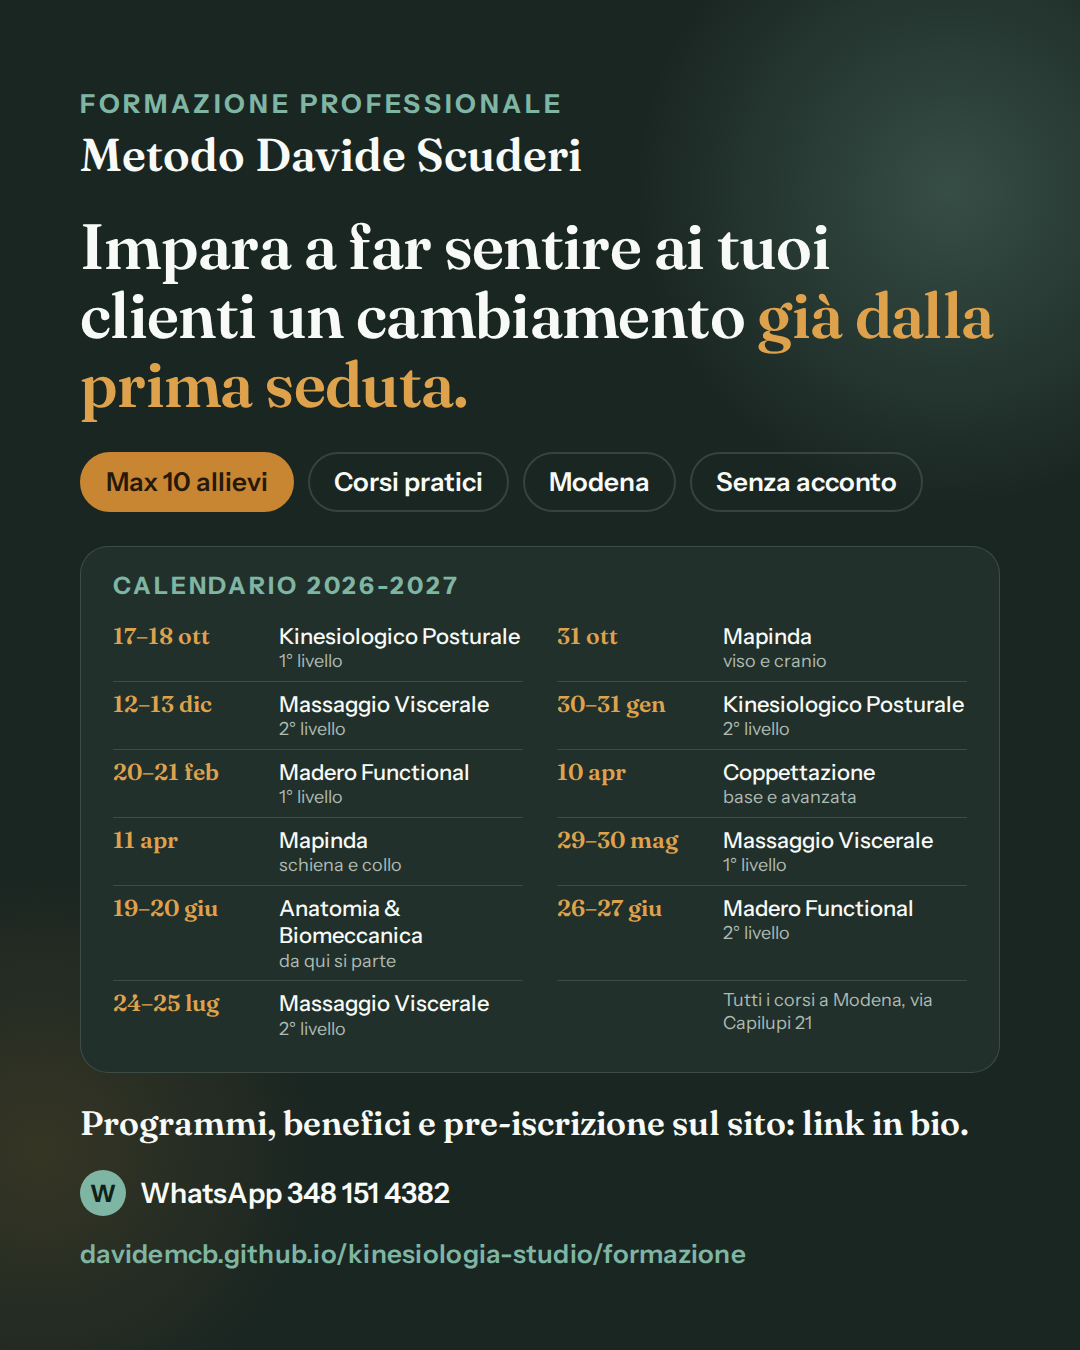
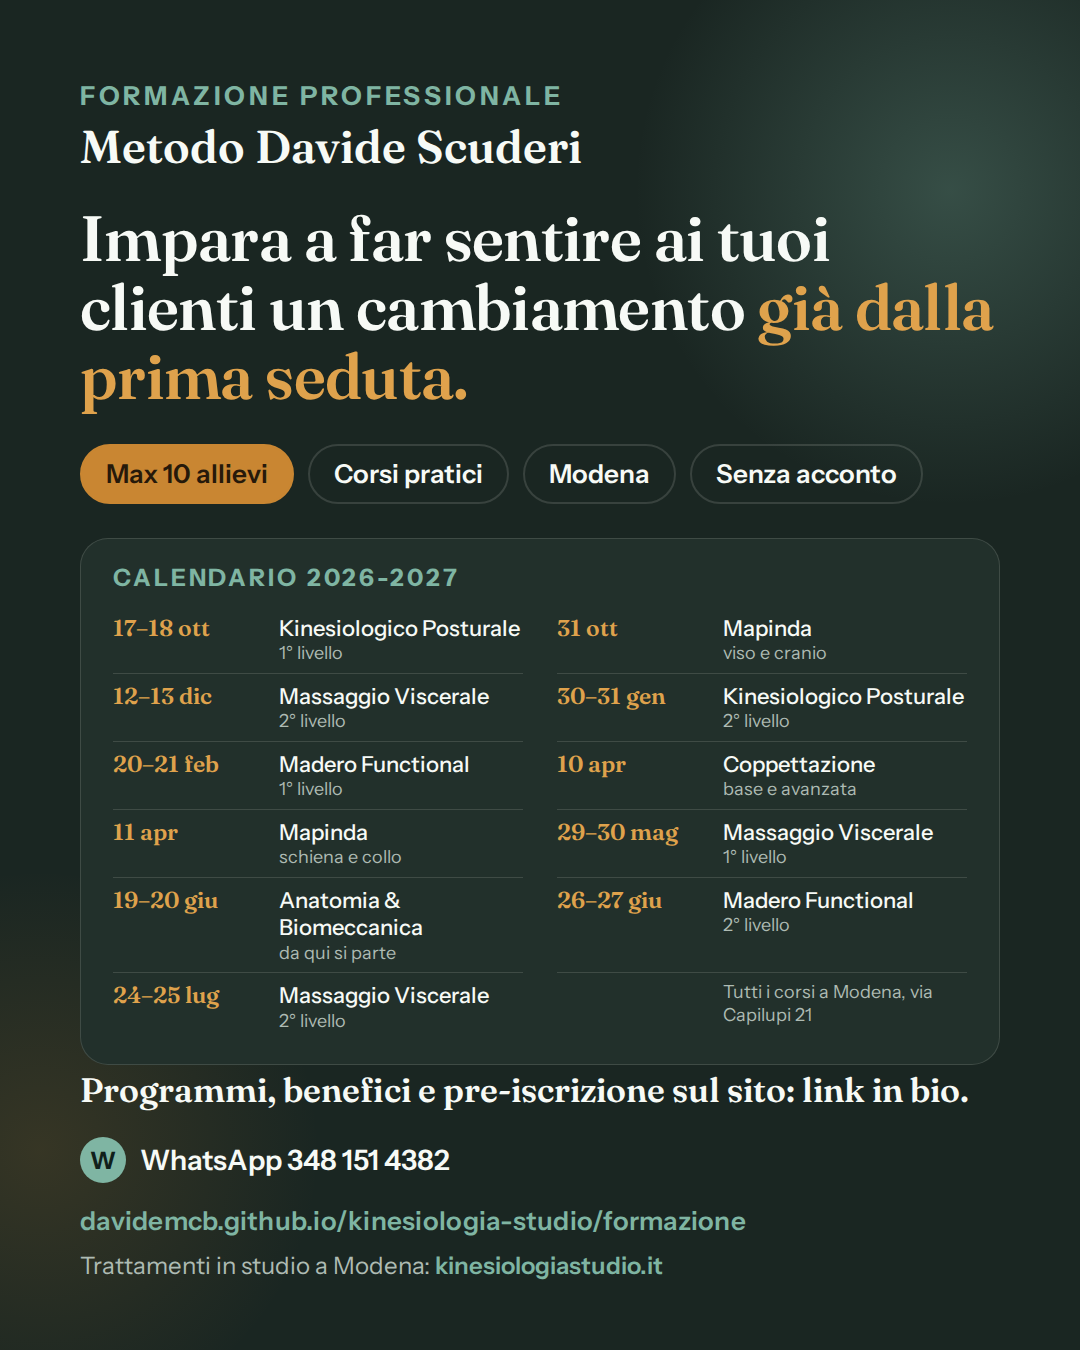
Formazione: riferimenti a kinesiologiastudio.it, il sito dello studio
Link al sito principale nel menu, nella sezione del metodo, nelle
recensioni (bottone Scopri lo studio), nel riquadro iscrizione e nel
pie' di pagina. Le cartoline Instagram riportano "Trattamenti in studio
a Modena: kinesiologiastudio.it".

Claude-Session: https://claude.ai/code/session_01RRnmPDe1sdnMoFGD9rgVwB

diff --git a/formazione/index.html b/formazione/index.html
@@ -337,6 +337,7 @@ footer.piede .disclaimer{margin-top:1.5rem;padding-top:1.5rem;border-top:1px sol
       <a href="#perchi">Per chi</a>
       <a href="#iscrizione">Iscrizione</a>
       <a href="#faq">Domande</a>
+      <a href="https://kinesiologiastudio.it" target="_blank" rel="noopener">Lo studio ↗</a>
     </nav>
     <a class="btn btn-primario" href="#iscrizione">Pre-iscriviti</a>
   </div>
@@ -422,7 +423,7 @@ footer.piede .disclaimer{margin-top:1.5rem;padding-top:1.5rem;border-top:1px sol
         <p>«Il risultato lo deve sentire la persona, non lo devo raccontare io. Quando chi riceve il trattamento dice "qui è successo qualcosa", allora la tecnica funziona.»</p>
         <footer>Dott. Davide Scuderi</footer>
       </div>
-      <p>Lavoro così in studio da oltre vent'anni e le recensioni dei miei pazienti lo dimostrano. Nei corsi ti trasferisco esattamente lo stesso modo di lavorare: lo impari con le mani, su persone vere, con me accanto che correggo e mostro.</p>
+      <p>Lavoro così da oltre vent'anni a <a href="https://kinesiologiastudio.it" target="_blank" rel="noopener">Kinesiologia Studio</a>, il mio studio di Modena, e le recensioni dei miei pazienti lo dimostrano. Nei corsi ti trasferisco esattamente lo stesso modo di lavorare: lo impari con le mani, su persone vere, con me accanto che correggo e mostro.</p>
     </div>
     <div>
       <p class="eyebrow">Come si lavora in ogni corso</p>
@@ -1104,8 +1105,11 @@ footer.piede .disclaimer{margin-top:1.5rem;padding-top:1.5rem;border-top:1px sol
         <b>5,0</b>
         <div><span class="stelle" aria-hidden="true">★★★★★</span><small>128 recensioni verificate su Google</small></div>
       </div>
-      <p>Ogni tecnica che insegno la applico ogni giorno in studio, a Modena. Le recensioni dei miei pazienti raccontano la stessa cosa che vedrai nei corsi: il corpo cambia nella prima seduta, e la persona se ne accorge. È il metodo che imparerai, non una versione da aula.</p>
-      <a class="btn btn-secondario" href="https://www.google.com/maps/search/?api=1&query=Kinesiologia+Studio+Via+Capilupi+21+Modena" target="_blank" rel="noopener">Leggi le recensioni su Google</a>
+      <p>Ogni tecnica che insegno la applico ogni giorno a Kinesiologia Studio, a Modena, dove faccio i trattamenti. Le recensioni dei miei pazienti raccontano la stessa cosa che vedrai nei corsi: il corpo cambia nella prima seduta, e la persona se ne accorge. È il metodo che imparerai, non una versione da aula.</p>
+      <div class="azioni" style="margin-top:0">
+        <a class="btn btn-secondario" href="https://www.google.com/maps/search/?api=1&query=Kinesiologia+Studio+Via+Capilupi+21+Modena" target="_blank" rel="noopener">Leggi le recensioni su Google</a>
+        <a class="btn btn-secondario" href="https://kinesiologiastudio.it" target="_blank" rel="noopener">Scopri lo studio: kinesiologiastudio.it</a>
+      </div>
     </div>
     <blockquote>
       <p>«Nei corsi non racconto come lavoro: lavoro. Ti mostro il test, tratto, ri-testo, e poi tocca a te. Alla fine della giornata hai fatto sentire un cambiamento a qualcuno con le tue mani. Da lì non si torna indietro.»</p>
@@ -1129,7 +1133,7 @@ footer.piede .disclaimer{margin-top:1.5rem;padding-top:1.5rem;border-top:1px sol
       <div>
         <h3>Prenota il tuo posto adesso</h3>
         <p>Scrivimi il corso che ti interessa e il tuo nome. Ti rispondo personalmente con prezzo, orari e tutti i dettagli. Ogni corso include le slide e l'attestato. Se il corso è già pieno, ti metto in lista per la data successiva.</p>
-        <p class="mini">Formazione professionale Metodo Davide Scuderi · Via Capilupi 21, Modena</p>
+        <p class="mini">Formazione professionale Metodo Davide Scuderi · Via Capilupi 21, Modena · Trattamenti in studio: <a href="https://kinesiologiastudio.it" target="_blank" rel="noopener" style="color:#9CCDBB">kinesiologiastudio.it</a></p>
       </div>
       <div class="azioni">
         <a class="btn btn-primario" id="wa-generico" href="https://wa.me/393481514382?text=Ciao%20Davide%2C%20vorrei%20pre-iscrivermi%20a%20un%20corso%20di%20formazione.%20Il%20mio%20nome%20%C3%A8%20" target="_blank" rel="noopener">Pre-iscriviti su WhatsApp</a>
@@ -1192,8 +1196,9 @@ footer.piede .disclaimer{margin-top:1.5rem;padding-top:1.5rem;border-top:1px sol
     <p>Corsi a Modena, Via Capilupi 21</p>
     <p style="margin-top:1rem"><strong style="color:#F7FAF6">Docente e iscrizioni: Dott. Davide Scuderi</strong></p>
     <p>Massoterapista · Chinesiologo · Naturopata · Kinesiologo · Professionista dal 2003</p>
-    <p>Kinesiologia Studio · <a href="https://wa.me/393481514382" target="_blank" rel="noopener">WhatsApp 348 151 4382</a> · <a href="tel:+393481514382">chiama</a> · <a href="mailto:infokinesiologia@gmail.com">infokinesiologia@gmail.com</a></p>
-    <p><a href="../">Torna all'app dello studio</a> · <a href="../privacy.html">Privacy</a></p>
+    <p><a href="https://wa.me/393481514382" target="_blank" rel="noopener">WhatsApp 348 151 4382</a> · <a href="tel:+393481514382">chiama</a> · <a href="mailto:infokinesiologia@gmail.com">infokinesiologia@gmail.com</a></p>
+    <p style="margin-top:1rem"><strong style="color:#F7FAF6">Kinesiologia Studio, Modena</strong> · lo studio dove faccio i trattamenti: <a href="https://kinesiologiastudio.it" target="_blank" rel="noopener">kinesiologiastudio.it</a></p>
+    <p><a href="../">App dello studio</a> · <a href="../privacy.html">Privacy</a></p>
     <p class="disclaimer">I corsi sono rivolti a operatori del benessere e professionisti del movimento e della salute. Le tecniche insegnate non sostituiscono diagnosi, cure o terapie mediche: insegno sempre a riconoscere quando una persona va inviata al medico.</p>
   </div>
 </footer>

diff --git a/formazione/social/cartolina.html b/formazione/social/cartolina.html
@@ -35,7 +35,7 @@ h1 em{font-style:normal;color:var(--accent2)}
 .story .in{padding-top:230px;padding-bottom:40px}
 /* post feed */
 .post{height:1350px}
-.post .in{padding-top:88px;padding-bottom:80px}
+.post .in{padding-top:80px;padding-bottom:70px}
 .post h1{font-size:64px;margin-top:30px}
 .post .name{font-size:46px}
 .post .lista{margin-top:34px;padding:24px 32px}
@@ -46,6 +46,8 @@ h1 em{font-style:normal;color:var(--accent2)}
 .post .link-spazio{display:none}
 .post .fondo .sito{margin-top:22px;font-size:26px;color:var(--brand);font-weight:600;letter-spacing:.01em}
 .story .fondo .sito{display:none}
+.studio{margin-top:14px;font-size:24px;color:var(--muted)}
+.studio b{color:var(--brand);font-weight:600}
 </style></head><body>
 
 <div class="card story" id="story"><div class="in">
@@ -71,6 +73,7 @@ h1 em{font-style:normal;color:var(--accent2)}
     <p class="cta">Programmi, benefici e pre-iscrizione sul sito.</p>
     <p class="sub">Tocca il link qui sotto: scegli il corso e scrivimi.</p>
     <p class="wa"><i>W</i> WhatsApp 348 151 4382</p>
+    <p class="studio">Trattamenti in studio a Modena: <b>kinesiologiastudio.it</b></p>
     <div class="link-spazio"></div>
   </div>
 </div></div>
@@ -98,6 +101,7 @@ h1 em{font-style:normal;color:var(--accent2)}
     <p class="cta">Programmi, benefici e pre-iscrizione sul sito: link in bio.</p>
     <p class="wa"><i>W</i> WhatsApp 348 151 4382</p>
     <p class="sito">davidemcb.github.io/kinesiologia-studio/formazione</p>
+    <p class="studio">Trattamenti in studio a Modena: <b>kinesiologiastudio.it</b></p>
   </div>
 </div></div>
 </body></html>
